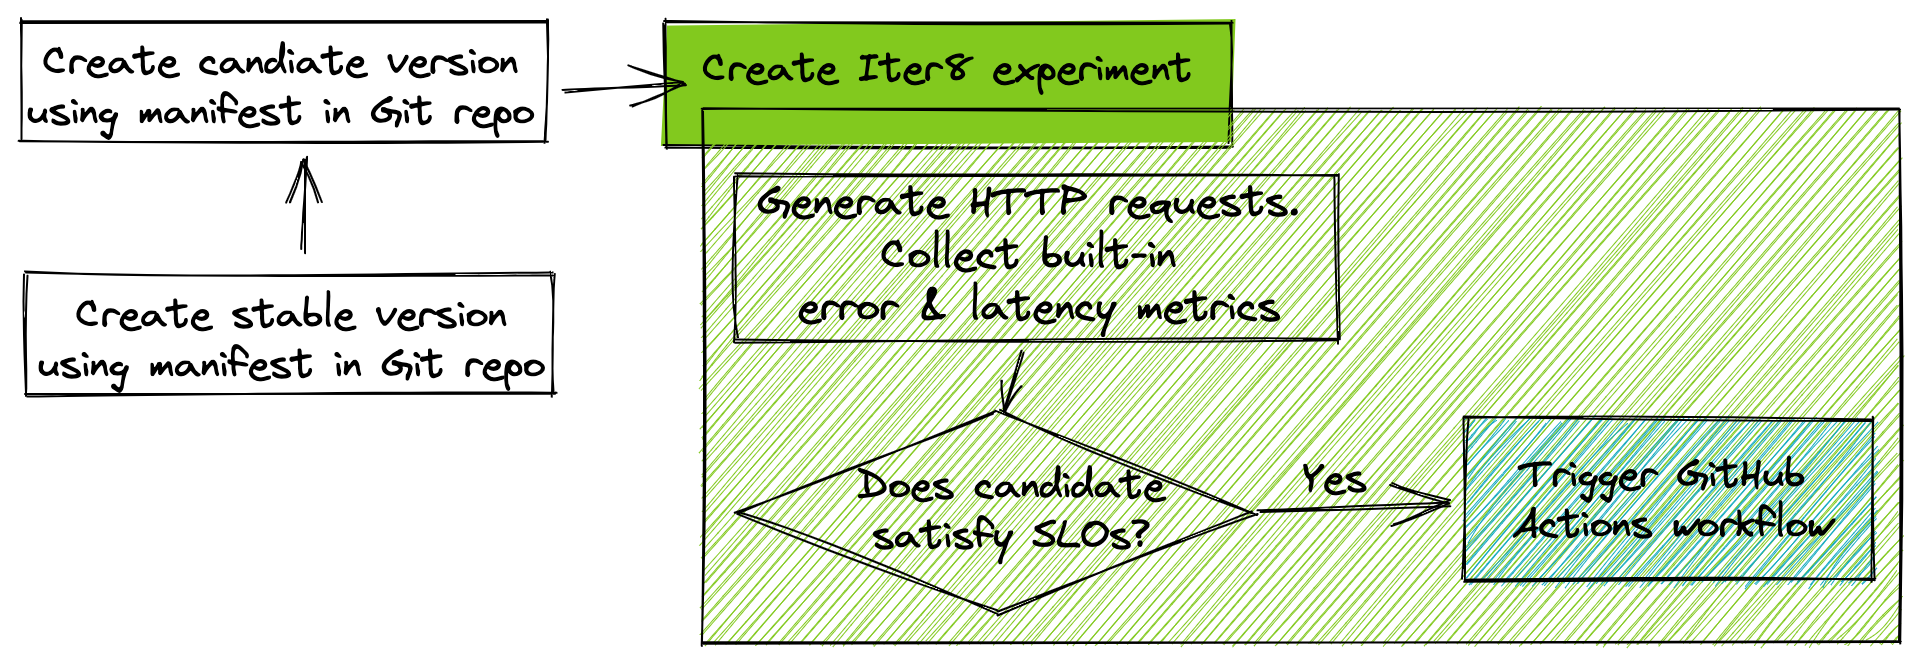
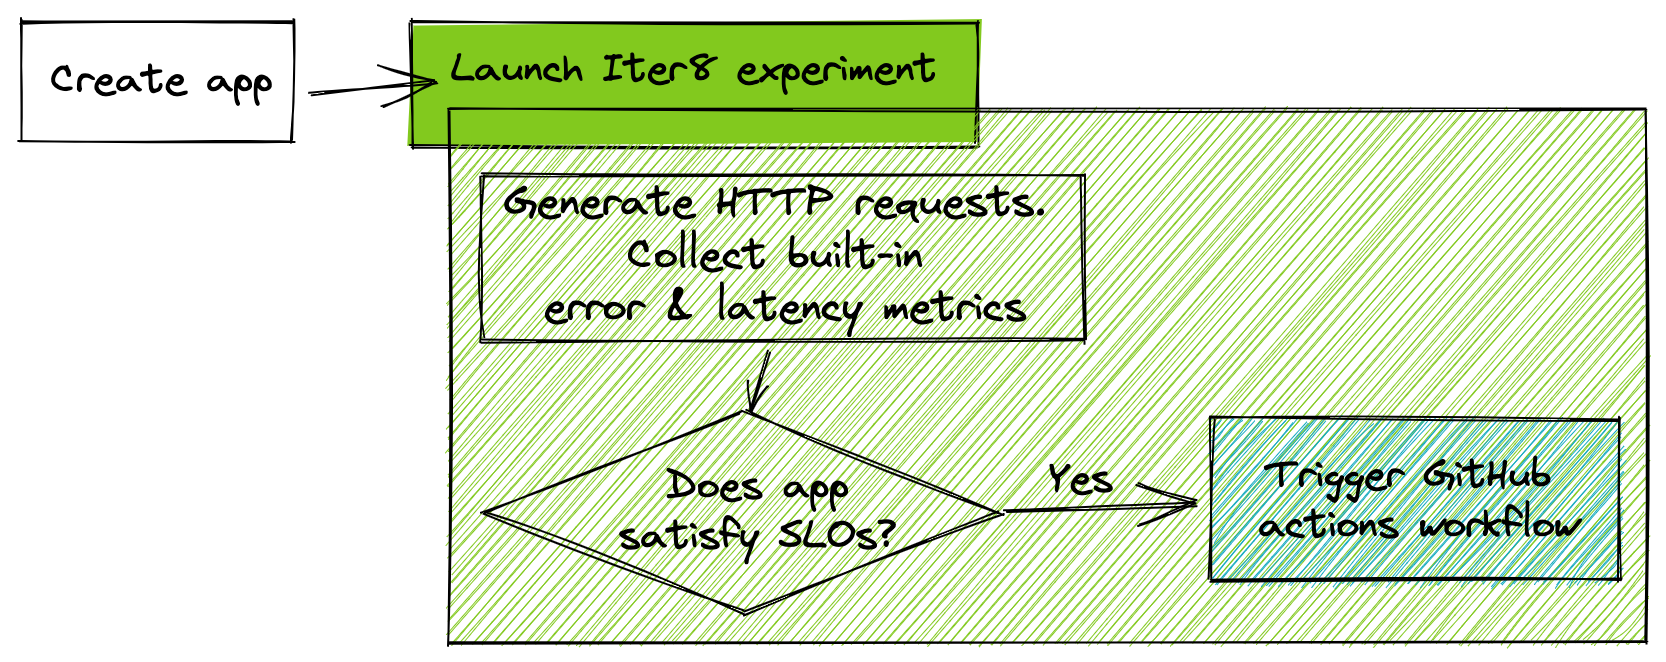
improved tutorial descriptions

diff --git a/mkdocs/docs/tutorials/deployments/slo-validation-ghaction.md b/mkdocs/docs/tutorials/deployments/slo-validation-ghaction.md
@@ -4,9 +4,9 @@ template: main.html
 
 # SLO Validation with Auto GH Actions Trigger
 !!! tip "Validate SLOs and automatically trigger a GitHub Actions workflow"
-    **Problem:** You have a new version of an app. You want to verify that it satisfies latency and error rate SLOs and promote it to production as the stable version in a GitOps-y manner by triggering a GitHub Actions workflow.
+    **Problem**: You have a Kubernetes app. You want to verify that it satisfies latency and error rate SLOs and automatically trigger a GitHub Actions workflow based on the result.
 
-    **Solution:** In this tutorial, you will [dark launch](../../concepts/buildingblocks.md#dark-launch) the new version of your app along with an Iter8 experiment. Iter8 will [validate that the new satisfies latency and error-based objectives (SLOs)](../../concepts/buildingblocks.md#slo-validation) using [built-in metrics](../../metrics/builtin.md) and [automatically trigger a GitHub Actions workflow](../../concepts/buildingblocks.md#version-promotion).
+    **Solution**: In this tutorial, you will launch a Kubernetes app along with an Iter8 experiment. Iter8 will [validate that the app satisfies latency and error-based objectives (SLOs)](../../concepts/buildingblocks.md#slo-validation) using [built-in metrics](../../metrics/builtin.md). During this validation, Iter8 will generate HTTP GET requests for the app. Once Iter8 verifies that the app satisfies SLOs, it will [automatically trigger a GitHub Actions workflow](../../concepts/buildingblocks.md#version-promotion).
 
     ![SLO Validation GitHub Action Trigger](../../images/slo-validation-ghaction.png)
 
@@ -26,44 +26,33 @@ template: main.html
     export ITER8=$(pwd)
     ```
 
-## 1. Create stable version
-Create version `1.0` of the `hello world` app as follows.
+## 1. Create app
+The `hello world` app consists of a Kubernetes deployment and service. Deploy the app as follows.
 
 ```shell
-# USERNAME is exported as part of setup steps.
-kubectl apply -f https://raw.githubusercontent.com/$USERNAME/iter8/master/samples/deployments/app/deploy.yaml
-kubectl apply -f https://raw.githubusercontent.com/$USERNAME/iter8/master/samples/deployments/app/service.yaml
+kubectl apply -n default -f $ITER8/samples/deployments/app/deploy.yaml
+kubectl apply -n default -f $ITER8/samples/deployments/app/service.yaml
 ```
 
-## 2. Create candidate version
-Create version `2.0` of the `hello world` app in the staging environment as follows. For the purpose of this tutorial, the production environment is the `default` namespace, and the staging environment is the `staging` namespace.
-
-```shell
-kubectl create ns staging
-# create version 2.0 of hello world app in the staging namespace
-kubectl set image --local -f https://raw.githubusercontent.com/$USERNAME/iter8/master/samples/deployments/app/deploy.yaml hello='gcr.io/google-samples/hello-app:2.0' -o yaml | kubectl apply -n staging -f -
-kubectl apply -f https://raw.githubusercontent.com/$USERNAME/iter8/master/samples/deployments/app/service.yaml -n staging
-```
-
-Adapt [these instructions](../../getting-started/first-experiment.md#verify-app) to verify that stable and candidate versions of your app are running.
-
-## 3. Enable GitOps
+## 2. Enable GitOps
 3.1) [Create a personal access token on GitHub](https://docs.github.com/en/github/authenticating-to-github/keeping-your-account-and-data-secure/creating-a-personal-access-token). In Step 8 of this process, grant `repo`, `workflow` and `read:org` permissions to this token. This will ensure that the token can be used by Iter8 to trigger GitHub Actions workflows.
 
 3.2) Create K8s secret
 ```shell
-# replace $GHTOKEN with GitHub token created above
-kubectl create secret generic -n staging ghtoken --from-literal=token=$GHTOKEN
+# GHTOKEN environment variable contains the GitHub token created above
+kubectl create secret generic ghtoken --from-literal=token=$GHTOKEN
 ```
 
-## 4. Launch Iter8 experiment
+## 3. Launch Iter8 experiment
 Deploy an Iter8 experiment for SLO validation followed by a notification that triggers a GitHub Actions workflow.
 ```shell
-helm upgrade -n staging my-exp $ITER8/samples/slo-ghaction \
-  --set URL='http://hello.staging.svc.cluster.local:8080' \
+# USERNAME environment variable contains your GitHub username
+helm upgrade my-exp $ITER8/samples/slo-ghaction \
+  --set URL='http://hello.default.svc.cluster.local:8080' \
   --set limitMeanLatency=50.0 \
   --set limitErrorRate=0.0 \
   --set limit95thPercentileLatency=100.0 \
+  --set owner=$USERNAME \
   --set repo=iter8 \
   --set workflow=demo.yaml \
   --install
@@ -71,25 +60,21 @@ helm upgrade -n staging my-exp $ITER8/samples/slo-ghaction \
 
 The above command creates [an Iter8 experiment](../../concepts/whatisiter8.md#what-is-an-iter8-experiment) that generates requests, collects latency and error rate metrics for the candidate version of the app, and verifies that the candidate satisfies mean latency (50 msec), error rate (0.0), 95th percentile tail latency (100 msec) SLOs. 
 
-Assuming that the candidate satisfies the SLOs, Iter8 will also trigger the `demo.yaml` workflow in the `iter8` repo using the `ghtoken` secret.
+Once Iter8 verifies that the app satisfies SLOs, it will trigger the `demo.yaml` workflow in the `iter8` repo. It uses the `ghtoken` secret to do this.
 
-View the experiment manifest as follows.
+View the manifest created by the Helm command, the default values used by the Helm chart, and the actual values used by the Helm release by following [the instructions in this step](../../getting-started/first-experiment.md#2a-view-manifest-and-values).
+
+## 4. Observe experiment
+Observe the experiment by following [these steps](../../getting-started/first-experiment.md#3-observe-experiment).
+
+## 5. View workflow run
+Once the experiment completes, you can visit your fork at https://github.com/$USERNAME/iter8/actions to view your workflow run.
+
+## 6. Cleanup
 ```shell
-helm get manifest -n staging my-exp
-```
-
-## 5. Observe experiment
-Observe the experiment by following [these steps](../../getting-started/first-experiment.md#3-observe-experiment). Ensure correct namespace (`staging`) is used.
-
-## 6. View workflow run
-Once the experiment completes, you can visit your fork at https://github.com/$USERNAME/iter8/pulls to review the GitHub pull request created by the GitHub Actions workflow.
-
-## 7. Cleanup
-
-```shell
-kubectl delete ns staging
-kubectl delete deploy/hello
-kubectl delete svc/hello
+helm uninstall -n default my-exp
+kubectl delete -n default -f $ITER8/samples/deployments/app/service.yaml
+kubectl delete -n default -f $ITER8/samples/deployments/app/deploy.yaml
 ```
 
 ***

diff --git a/mkdocs/docs/tutorials/deployments/slo-validation-pr.md b/mkdocs/docs/tutorials/deployments/slo-validation-pr.md
@@ -87,9 +87,9 @@ helm upgrade -n staging my-exp $ITER8/samples/slo-pr \
 
 The above command creates [an Iter8 experiment](../../concepts/whatisiter8.md#what-is-an-iter8-experiment) that generates requests, collects latency and error rate metrics for the candidate version of the app, and verifies that the candidate satisfies mean latency (50 msec), error rate (0.0), 95th percentile tail latency (100 msec) SLOs. 
 
-Assuming the candidate version satisfies SLOs, it creates a pull request with `staging` as the head branch and `master` as the base branch. It uses the `ghtoken` secret to do so.
+Once Iter8 verifies that the candidate satisfies SLOs, it creates a pull request with `staging` as the head branch and `master` as the base branch. It uses the `ghtoken` secret to do this.
 
-View the manifest created by the Helm command, the default values used by the Helm chart, and the actual values used by the Helm release by adapting [the instructions in this step](../../getting-started/first-experiment.md#2-launch-iter8-experiment).
+View the manifest created by the Helm command, the default values used by the Helm chart, and the actual values used by the Helm release by adapting [the instructions in this step](../../getting-started/first-experiment.md#2a-view-manifest-and-values).
 
 ## 5. Observe experiment
 Observe the experiment by adapting [these steps](../../getting-started/first-experiment.md#3-observe-experiment).

diff --git a/mkdocs/docs/tutorials/deployments/slo-validation-payload.md b/mkdocs/docs/tutorials/deployments/slo-validation-payload.md
@@ -86,7 +86,7 @@ helm upgrade -n default my-exp $ITER8/samples/slo-validation \
 
 The above command creates [an Iter8 experiment](../../concepts/whatisiter8.md#what-is-an-iter8-experiment) that generates HTTP requests, collects latency and error rate metrics for the app, and verifies that the app satisfies mean latency (100 msec), error rate (0.0), 95th percentile tail latency (200 msec) SLOs. These HTTP requests are POST requests and use the JSON data from the `payloadURL` specified in the command as request payload.
 
-View the manifest created by the Helm command, the default values used by the Helm chart, and the actual values used by the Helm release using [the instructions in this step](../../getting-started/first-experiment.md#2-launch-iter8-experiment).
+View the manifest created by the Helm command, the default values used by the Helm chart, and the actual values used by the Helm release using [the instructions in this step](../../getting-started/first-experiment.md#2a-view-manifest-and-values).
 
 ## 3. Observe experiment
 Observe the experiment by following [these steps](../../getting-started/first-experiment.md#3-observe-experiment).

diff --git a/mkdocs/docs/tutorials/deployments/slo-validation-chaos.md b/mkdocs/docs/tutorials/deployments/slo-validation-chaos.md
@@ -52,10 +52,7 @@ helm upgrade -n default my-exp $ITER8/samples/deployments/chaos \
 
 The above command creates a [Litmus chaos experiment](https://litmuschaos.io/) and an [Iter8 experiment](../../concepts/whatisiter8.md#what-is-an-iter8-experiment). The former injects chaos into your environment by periodically killing pods of your app. The latter generates HTTP requests, collects latency and error rate metrics for the app, and verifies if the app satisfies mean latency (50 msec), error rate (0.0), 95th percentile tail latency (100 msec) SLOs, even in the midst of chaos.
 
-View the experiment resources as follows.
-```shell
-helm get manifest -n default my-exp
-```
+View the manifest created by the Helm command, the default values used by the Helm chart, and the actual values used by the Helm release using [the instructions in this step](../../getting-started/first-experiment.md#2a-view-manifest-and-values).
 
 ## 3. Observe Experiment
 Verify that the phase of the chaos experiment is `Completed`.

diff --git a/mkdocs/docs/getting-started/first-experiment.md b/mkdocs/docs/getting-started/first-experiment.md
@@ -74,6 +74,7 @@ helm upgrade -n default my-exp $ITER8/samples/slo-validation \
 
 The above command creates [an Iter8 experiment](../concepts/whatisiter8.md#what-is-an-iter8-experiment) that generates requests, collects latency and error rate metrics for the app, and verifies that the app satisfies mean latency (50 msec), error rate (0.0), 95th percentile tail latency (100 msec) SLOs.
 
+### 2.a) View manifest and values
 View the manifest created by the Helm command, the default values used by the Helm chart, and the actual values used by the Helm release using the following instructions.
 
 ??? note "View experiment manifest using these instructions"
